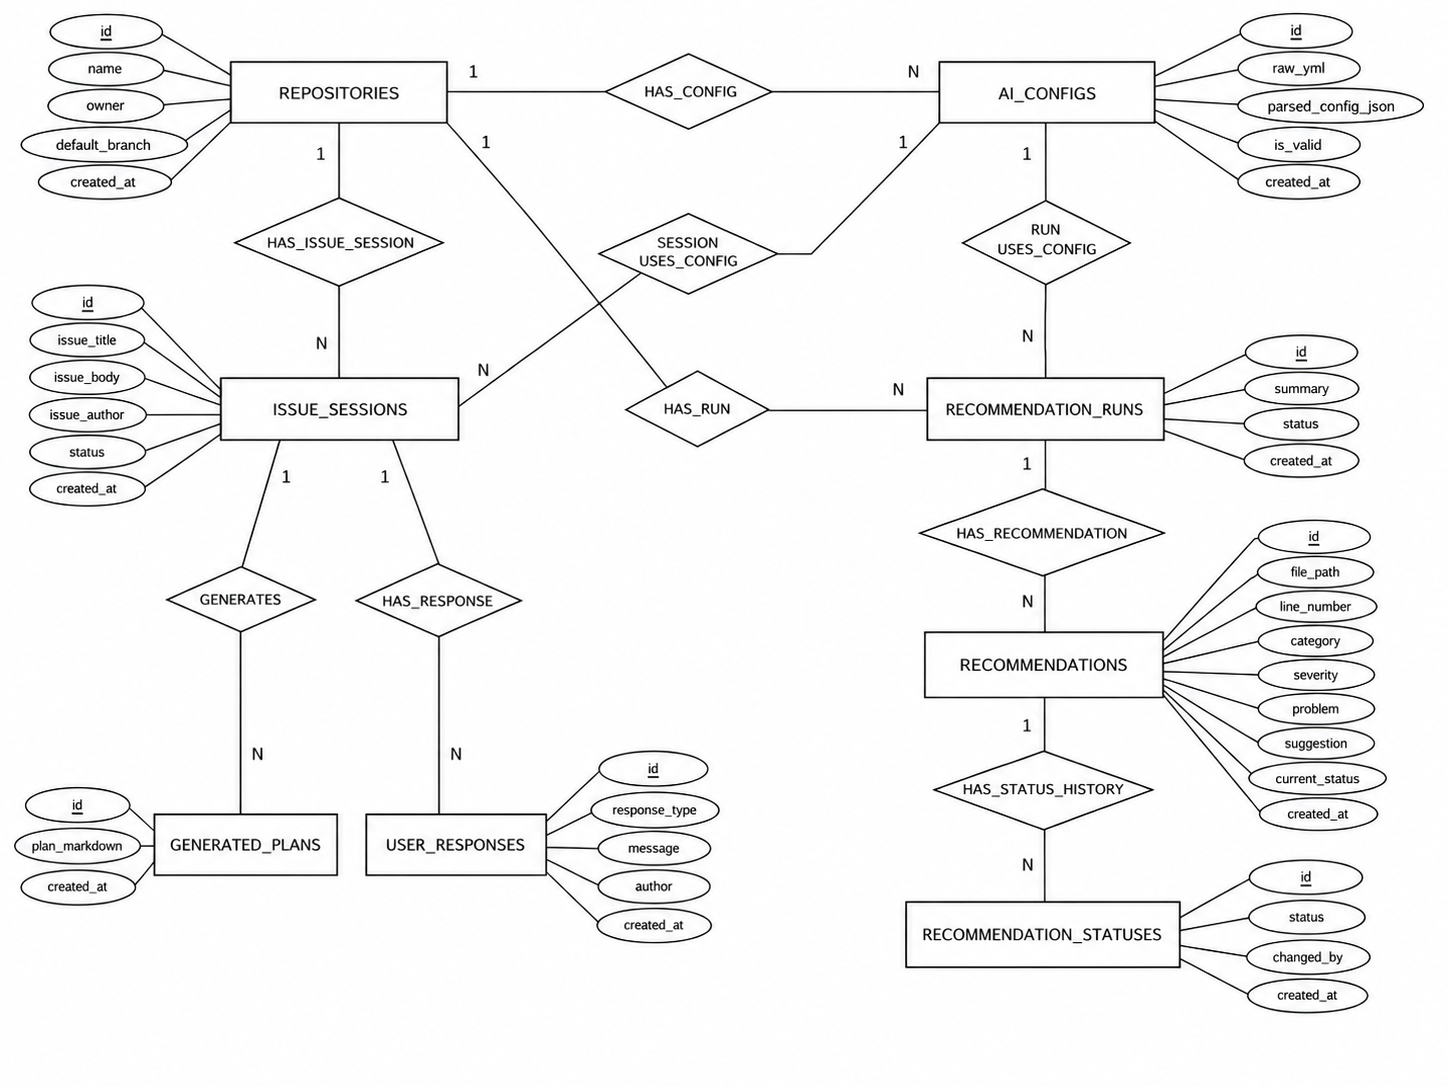
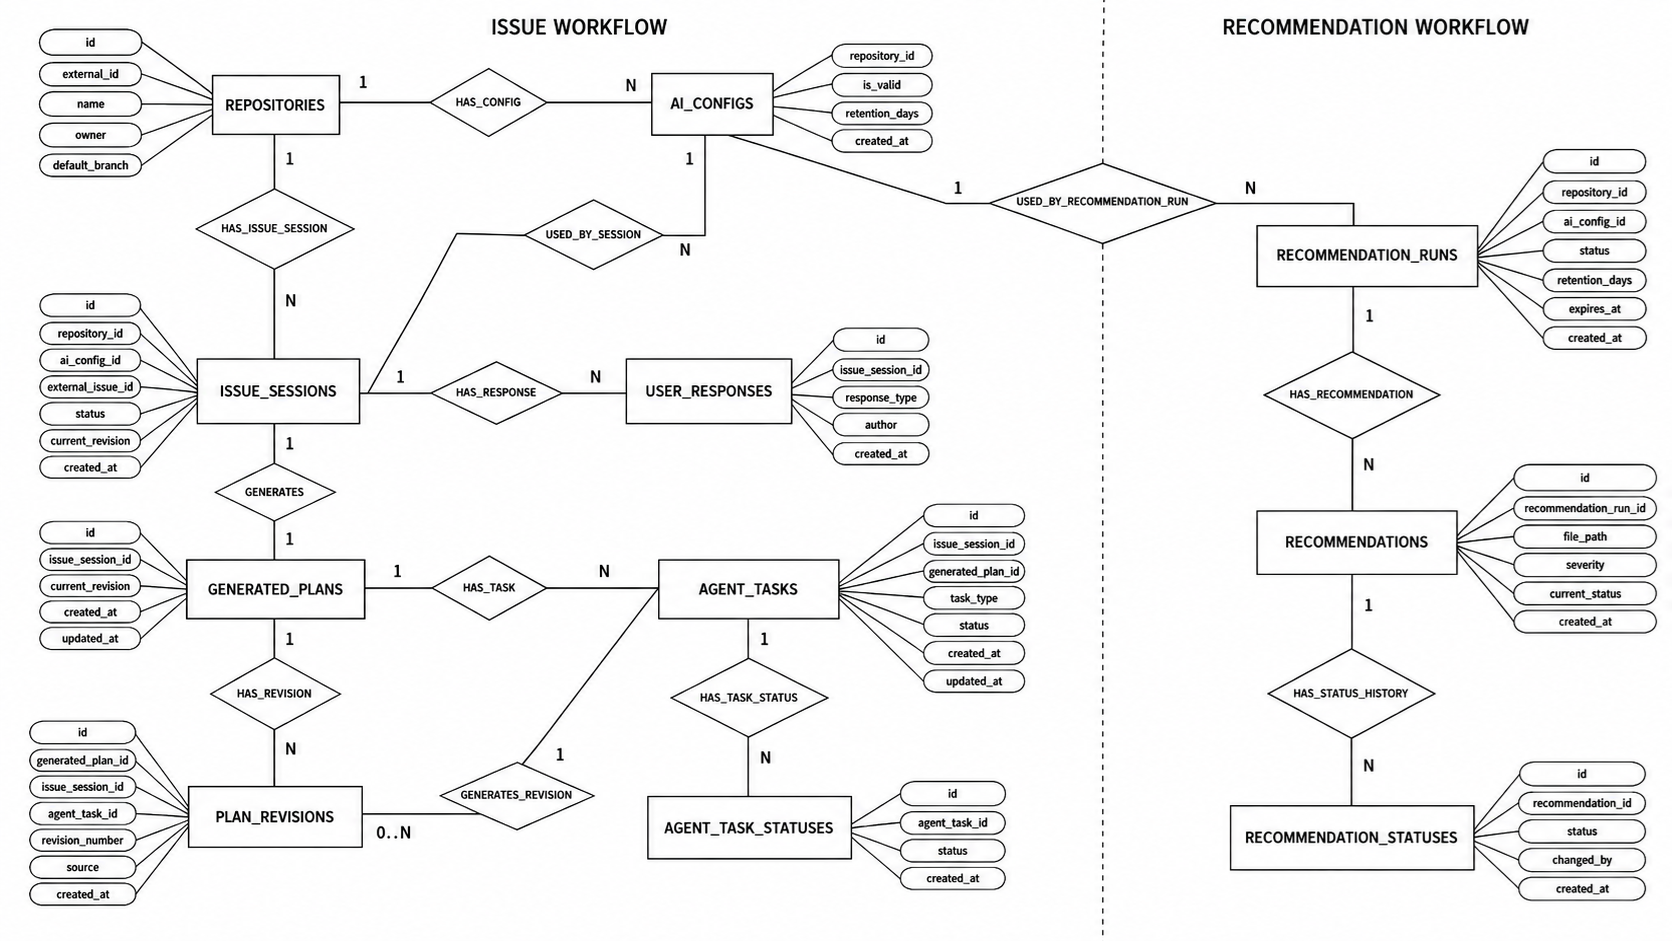
Fixes and documentation

Changed region(s): [[0.0, 0.0, 0.9945, 0.9862], [0.6215, 0.1233, 0.6526, 0.1541], [0.404, 0.1541, 0.4351, 0.1849]]

diff --git a/backend/internal/app/storage.go b/backend/internal/app/storage.go
@@ -760,7 +760,13 @@ func insertAgentTask(ctx context.Context, tx pgx.Tx, sessionID string, generated
 		) VALUES ($1, $2, $3, 'queued', now())
 		RETURNING id::text
 	`, sessionValue, planValue, taskType).Scan(&taskID)
-	return taskID, err
+	if err != nil {
+		return "", err
+	}
+	if err := insertAgentTaskStatus(ctx, tx, taskID, "queued", "Agent task queued."); err != nil {
+		return "", err
+	}
+	return taskID, nil
 }
 
 func updateAgentTaskStatus(ctx context.Context, tx pgx.Tx, taskID string, status string, errorMessage string, toolSummary string) error {
@@ -780,7 +786,31 @@ func updateAgentTaskStatus(ctx context.Context, tx pgx.Tx, taskID string, status
 			updated_at = now()
 		WHERE id = $1::uuid
 	`, taskID, status, errorMessage, toolSummary)
+	if err != nil {
+		return err
+	}
+	return insertAgentTaskStatus(ctx, tx, taskID, status, statusMessage(status, errorMessage, toolSummary))
+}
+
+func insertAgentTaskStatus(ctx context.Context, tx pgx.Tx, taskID string, status string, message string) error {
+	_, err := tx.Exec(ctx, `
+		INSERT INTO agent_task_statuses (
+			agent_task_id,
+			status,
+			message
+		) VALUES ($1, $2, $3)
+	`, taskID, status, message)
 	return err
+}
+
+func statusMessage(status string, errorMessage string, toolSummary string) string {
+	if strings.TrimSpace(errorMessage) != "" {
+		return errorMessage
+	}
+	if strings.TrimSpace(toolSummary) != "" {
+		return toolSummary
+	}
+	return "Agent task status changed to " + status + "."
 }
 
 func upsertPlanRevision(ctx context.Context, tx pgx.Tx, sessionID string, generatedPlanID string, taskID string, revision int, planMarkdown string, feedback string, source string) error {

diff --git a/backend/models/agent_task_status.go b/backend/models/agent_task_status.go
@@ -1,0 +1,9 @@
+package models
+
+type AgentTaskStatusHistory struct {
+	ID          UUID            `db:"id" json:"id"`
+	AgentTaskID UUID            `db:"agent_task_id" json:"agent_task_id"`
+	Status      AgentTaskStatus `db:"status" json:"status"`
+	Message     string          `db:"message" json:"message"`
+	Timestamps
+}

diff --git a/docs/architecture/database-schema.md b/docs/architecture/database-schema.md
@@ -18,6 +18,7 @@ The issue workflow is represented by:
 - `generated_plans`
 - `plan_revisions`
 - `agent_tasks`
+- `agent_task_statuses`
 - `user_responses`
 
 The recommendation workflow is represented by:
@@ -34,7 +35,9 @@ The recommendation workflow is represented by:
 
 `plan_revisions` stores the history of generated plans. Each correction creates a new revision with its own `revision_number`, full `plan_markdown`, and optional `correction_feedback`. Revisions store full Markdown content instead of diffs, because this is simpler to restore and verify in Sprint 2.
 
-`agent_tasks` stores the Agent Engine task state. The planned statuses are `queued`, `processing`, `completed`, and `failed`. The table also stores a short `tool_execution_summary`, but it does not store full model reasoning.
+`agent_tasks` stores the current Agent Engine task state. The planned statuses are `queued`, `processing`, `completed`, and `failed`. The table also stores a short `tool_execution_summary`, but it does not store full model reasoning.
+
+`agent_task_statuses` stores the task transition history. A single task can therefore show that it moved from `queued` to `processing` and then to `completed` or `failed`.
 
 `user_responses` stores user decisions: approve, correct, or reject.
 
@@ -69,5 +72,5 @@ It inserts sample records and checks that:
 - an issue session can be saved;
 - a generated plan can be linked to the session;
 - a plan revision can store correction feedback;
-- an agent task can store its status;
+- an agent task can store its current status and transition history;
 - a recommendation run can store retention data.

diff --git a/backend/db/README.md b/backend/db/README.md
@@ -17,12 +17,13 @@ The migration creates:
 - `generated_plans`
 - `plan_revisions`
 - `agent_tasks`
+- `agent_task_statuses`
 - `user_responses`
 - `recommendation_runs`
 - `recommendations`
 - `recommendation_statuses`
 
-`issue_sessions` stores the GitFlame issue workflow state. `generated_plans` stores the current plan for a session. `plan_revisions` stores the plan history, including correction feedback. `agent_tasks` stores Agent Engine task status values: `queued`, `processing`, `completed`, and `failed`.
+`issue_sessions` stores the GitFlame issue workflow state. `generated_plans` stores the current plan for a session. `plan_revisions` stores the plan history, including correction feedback. `agent_tasks` stores the current Agent Engine task status, while `agent_task_statuses` stores the transition history for `queued`, `processing`, `completed`, and `failed`.
 
 Recommendation retention is stored on `recommendation_runs` with `retention_days` and `expires_at`. The backend takes `retention_days` from the validated `.yml` configuration; it is not chosen by the database.
 